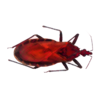
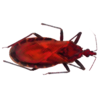
V1! it works!

Changed region(s): [[0.0, 0.21, 0.99, 0.75], [0.39, 0.48, 0.42, 0.54], [0.24, 0.51, 0.3, 0.54]]

diff --git a/main.py b/main.py
@@ -13,7 +13,7 @@ generation_time = 5 # in seconds
 CRISPR_efficiency = 5 # in percent
 max_generation_life_span = 1 # how many generations can pass before an individual dies
 types = ['heterozygous', 'homozygous_wt', 'homozygous_modified']
-num_generations = 6
+num_generations = 3
 total_population = 0
 
 # Input box class, with help from https://stackoverflow.com/questions/46390231/how-to-create-a-text-input-box-with-pygame#
@@ -21,6 +21,12 @@ COLOR_INACTIVE = pygame.Color('lightskyblue3')
 COLOR_ACTIVE = pygame.Color('dodgerblue2')
 FONT = pygame.font.Font(None, 32)
 
+bug_wt = pygame.image.load('wt2.png').convert_alpha()
+bug_wt = pygame.transform.smoothscale(bug_wt, (5, 5))
+bug_wt = pygame.transform.rotozoom(bug_wt, 90, 1)
+bug_mod = pygame.image.load('mod2.png').convert_alpha()
+bug_mod = pygame.transform.smoothscale(bug_mod, (5, 5))
+bug_mod = pygame.transform.rotozoom(bug_mod, 90, 1)
 
 class InputBox:
 
@@ -114,9 +120,11 @@ class Population:
         self.size += len(individuals) - 1 # update size of current population
     def draw_bugs(self):
         for individual in self.individuals:
-            screen.blit(individual.bug['image'], (individual.bug['x'], individual.bug['y']))
-            pygame.display.flip()
-            # time.sleep(5)
+            if individual.bug['_type'] == 'wt':
+                bug = bug_wt
+            else:
+                bug = bug_mod
+            screen.blit(bug, (individual.bug['x'], individual.bug['y']))
     # Begin mating process, run simulation
     def run(self):
         # Time to represent each generation in a visual simulation in seconds
@@ -147,10 +155,7 @@ class Individual:
         # if visualizing
     # create a bug visualization for this individual
     def create_bug(self, _type):
-        bug = pygame.image.load('{}.png'.format(_type)).convert_alpha()
-        bug = pygame.transform.smoothscale(bug, (50, 50))
-        bug = pygame.transform.rotozoom(bug, 90, 1)
-        self.bug['image'] = bug
+        self.bug['_type'] = _type
         # Algorithm to determine x and y here
         # We'll just put them in random positions within good margins of the screen
         # Avoiding the interface
@@ -204,25 +209,6 @@ class Individual:
             mate = None # check if this needs to be instantiated outside of while loop
             tries = 1
             clear = False
-            while mateless:
-                # get a random ID from the population
-                ID = randint(1, self.population.size - 1)
-                # make sure it fits constraints:
-                mate = self.population.individuals[ID]
-                # they are clear if it is legal to mate cross_generation or if they are in the same generation
-                if cross_generational_mating == False:
-                    if mate.generation == self.generation:
-                        clear = True
-                else:
-                    clear = True
-
-                if mate.num_matings <= multiple_matings and self.num_matings <= multiple_matings and mate.male is False and clear:
-                    # constraints are met! We can stop looking and actually mate
-                    mateless = False
-                tries +=1
-                if tries > 10:
-                    return # They lost their opportunity to mate
-            #2 & 3
             # create proper number of individuals based on inheritance probabilities
             children = []
             for i in range(1, num_offspring + 1):
@@ -232,37 +218,19 @@ class Individual:
                 else:
                     male = False
                 child = Individual(self.population.size + i, self.generation + 1, male, False, False, self.population)
-                if self.is_homozygous_modified() and mate.is_homozygous_modified():
+                # what are the counts of different genotypes in the population
+                # self.population.homozygous_modified
+                # self.population.homozygous_wt
+                # len(self.population.individuals)
+                if self.is_homozygous_modified():
                     child.make_homozygous_modified()
-                elif self.is_heterozygous() and mate.is_heterozygous():
-                    rand = randint(1, 4)
-                    if rand == 1:
+                if self.is_homozygous_wt():
+                    percent_modified = self.population.homozygous_modified / len(self.population.individuals)
+                    rand = randint(0, 100)
+                    if rand < percent_modified:
                         child.make_homozygous_modified()
-                    if rand == 2 or rand == 3:
-                        child.make_heterozygous()
                     else:
                         child.make_homozygous_wt()
-                elif self.is_homozygous_wt() and mate.is_homozygous_wt():
-                    child.make_homozygous_wt()
-                elif (self.is_homozygous_wt() and mate.is_homozygous_modified()) or (mate.is_homozygous_wt() and self.is_homozygous_modified()):
-                    child.make_heterozygous()
-                elif (self.is_heterozygous() and mate.is_homozygous_wt()) or (mate.is_heterozygous() and self.is_homozygous_wt()):
-                    rand = randint(1, 2)
-                    if rand == 1:
-                        child.make_heterozygous()
-                    else:
-                        child.make_homozygous_wt()
-                elif (self.is_heterozygous() and mate.is_homozygous_modified()) or (self.is_homozygous_modified() and mate.is_heterozygous()):
-                    rand = randint(1, 2)
-                    if rand == 1:
-                        child.make_heterozygous()
-                    else:
-                        child.make_homozygous_wt()
-                else:
-                    # apparently we missed something
-                    print('{}, {}'.format(self.chromosome_one, self.chromosome_two))
-                    print('{}, {}'.format(mate.chromosome_one, mate.chromosome_two))
-                    print("Apparently you missed something.")
                 children.append(child)
             #4
             self.population.add_individuals(children)
@@ -312,6 +280,19 @@ def simulation():
     mod_population_input = InputBox(30, 75, 200, 30)
     while not done:
         screen.fill((255, 255, 255))
+        # Simulation info
+        # instantiate info if it doesn't already exist
+        # this also denotes first run
+        try:
+            generation_num
+        except NameError:
+            generation_num = 0
+            wt_num = 0
+            mod_num = 0
+            population = None
+            pop_num = 1
+            drawn = False
+
         input_boxes = [wt_population_input, mod_population_input]
         for event in pygame.event.get():
             if event.type == pygame.QUIT:
@@ -331,22 +312,11 @@ def simulation():
         button_height = 60
         pygame.draw.rect(screen, (0, 128, 255), pygame.Rect(button_x, button_y, button_width, button_height))
         font = pygame.font.SysFont("comicsansms", 26)
-        # Simulation info
-        # instantiate info if it doesn't already exist
-        try:
-            generation_num
-        except NameError:
-            generation_num = 0
-            wt_num = 0
-            mod_num = 0
-            population = None
-
         if population is not None:
             population.draw_bugs()
         generation = font.render("Generation: {}".format(generation_num), True, (0, 0, 0))
-        num_wt = font.render("% Wild-Type (red): {}".format(wt_num), True, (0, 0, 0))
-        num_mod = font.render("% Modified (blue): {}".format(mod_num), True, (0, 0, 0))
-        pygame.display.flip()
+        num_wt = font.render("Wild-Type (red): {}%".format(int(wt_num/pop_num*100)), True, (0, 0, 0))
+        num_mod = font.render("Modified (blue): {}%".format(int(mod_num/pop_num*100)), True, (0, 0, 0))
         # Start button text
         button = font.render("Start", True, (0, 0, 0))
         # Render everything
@@ -365,8 +335,9 @@ def simulation():
                 generation_num = results['generations']
                 wt_num = population.homozygous_wt
                 mod_num = population.homozygous_modified
-                pygame.display.flip()
-        pygame.display.flip()
+                pop_num = len(population.individuals)
+                # pygame.display.flip()
+        pygame.display.update()
         clock.tick(60)
         # main() # run main program
         # pygame.display.flip()
